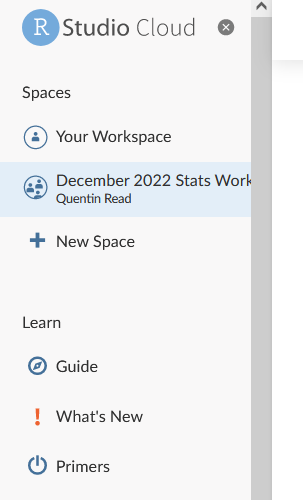
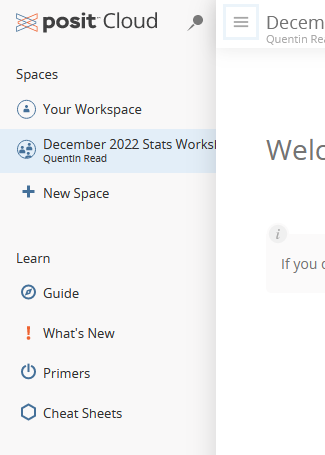
Updated installation information

diff --git a/install.md b/install.md
@@ -3,16 +3,16 @@ layout: page
 title: Installation instructions
 ---
 
-I am happy to announce that we now have access to [RStudio Cloud](https://rstudio.cloud). This allows participants in this course to have access to a fully functioning copy of RStudio through their web browser that has all the packages installed and contains all the datasets and worksheets needed for the course. This is a "demo" version of RStudio that is only suitable for the workshop, and shouldn't be used to work on analyzing your own USDA data. 
+I am happy to announce that we now have access to the paid version of [Posit Cloud](https://posit.cloud), formerly known as RStudio Cloud, through ARS. This allows participants in this course to have access to a fully functioning copy of RStudio through their web browser. The browser version of RStudio will have all the packages installed and contain all the datasets and worksheets needed for the course. This is a "demo" version of RStudio that is only suitable for the workshop, and shouldn't be used to work on analyzing your own USDA data. 
 
-You may also want to run all the R code locally on your own machine during the course. And if you want to continue using RStudio after the workshop, you will need to install everything on your own computer anyway. This page now contains two sets of instructions:
+You may also want to run all the R code locally on your own machine during the course. And if you want to continue using RStudio after the workshop, you will need to install everything on your own computer anyway. So this page has two sets of instructions, one for setting up your Posit Cloud access to RStudio and another for how to install R and RStudio on your own computer:
 
-- [How to get access to RStudio Cloud](#accessing-rstudio-cloud)
+- [How to get access to RStudio through Posit Cloud](#accessing-rstudio-through-posit-cloud)
 - [How to install R, RStudio, and the needed packages locally](#installing-r-and-rstudio-locally)
 
-## Accessing RStudio Cloud
+## Accessing RStudio through Posit Cloud
 
-> NOTE: Your RStudio Cloud access is for instructional purposes only. Please do not upload the government's data to this cloud server. To work with your USDA data using R, please install the software locally or use SciNet.
+> **NOTE**: Your cloud access to RStudio is for instructional purposes only. Please do not upload the government's data to this cloud server. To work with your USDA data using R, please install the software locally or use SciNet.
 
 #### Step 1. Create account
 
@@ -70,16 +70,17 @@ Before the course, you will need to have the following software installed on you
 - R packages:
   + [tidyverse](https://www.tidyverse.org/) (this includes the packages [dplyr](https://dplyr.tidyverse.org/), [tidyr](https://tidyr.tidyverse.org/), [readr](https://readr.tidyverse.org/), and [ggplot2](https://ggplot2.tidyverse.org/) that we will be working with)
   + [lme4](https://cran.r-project.org/web/packages/lme4/index.html)
+  + [lmerTest](https://cran.r-project.org/package=lmerTest)
   + [emmeans](https://cran.r-project.org/web/packages/emmeans/index.html)
   + [multcomp](https://cran.r-project.org/package=multcomp)
   + [easystats](https://easystats.github.io/easystats/)
   + [agridat](https://kwstat.github.io/agridat/)
 
-In addition, you will need to download the example datasets.
+In addition, you will need to download the example datasets and code worksheets.
   
 #### Step 1. Install R
 
-You will need to download R from [The Comprehensive R Archive Network](https://cran.r-project.org/), or CRAN. CRAN is a team of developers that maintain R and manage the packages that users contribute.
+You will need to download R from [The Comprehensive R Archive Network](https://cran.r-project.org/), or CRAN. 
 
 ![CRAN R download screenshot](../public/images/cran_screenshot.png){: align="left" style="padding-right: 25px" width="400px" }
 
@@ -102,21 +103,21 @@ To install the packages we will be working with in this course, you will need to
 ##### Installing packages from the R console
 
 - Open RStudio.
-- Type the following command into the R console and press enter. Voila!
+- Type the following command into the R console and press Enter. Voila!
 
 ```
-install.packages(c("tidyverse", "lme4", "lmerTest", "emmeans"))
+install.packages(c("tidyverse", "lme4", "lmerTest", "emmeans", "multcomp", "easystats", "agridat"))
 ```
 
 ##### Installing packages from the RStudio package installation window
 
 You can also install the packages using the RStudio package installation dialog.
 
-- The files pane has a tab called "Packages." Click on that and click the "Install" button in the upper left.
+- The files pane has a tab called "Packages." Click on the "Packages" tab and then click the "Install" button in the upper left.
 - Type the package names, separated by space or comma, into the box:
 
 ```
-tidyverse, lme4, lmerTest, emmeans
+tidyverse, lme4, lmerTest, emmeans, multcomp, easystats, agridat
 ```
 
 It should look like this:
@@ -129,4 +130,4 @@ It should look like this:
 
 #### Step 4. Download the worksheets and example datasets
 
-The [worksheets and example datasets]({{ site.baseurl}}/worksheets) are available for download on this site. 
+Go to the [worksheets and example datasets download page]({{ site.baseurl}}/worksheets) and download the datasets and worksheets. Unzip them to a directory on your local file system. You will need to specify the file path to that directory when you load the example datasets during the workshop.
